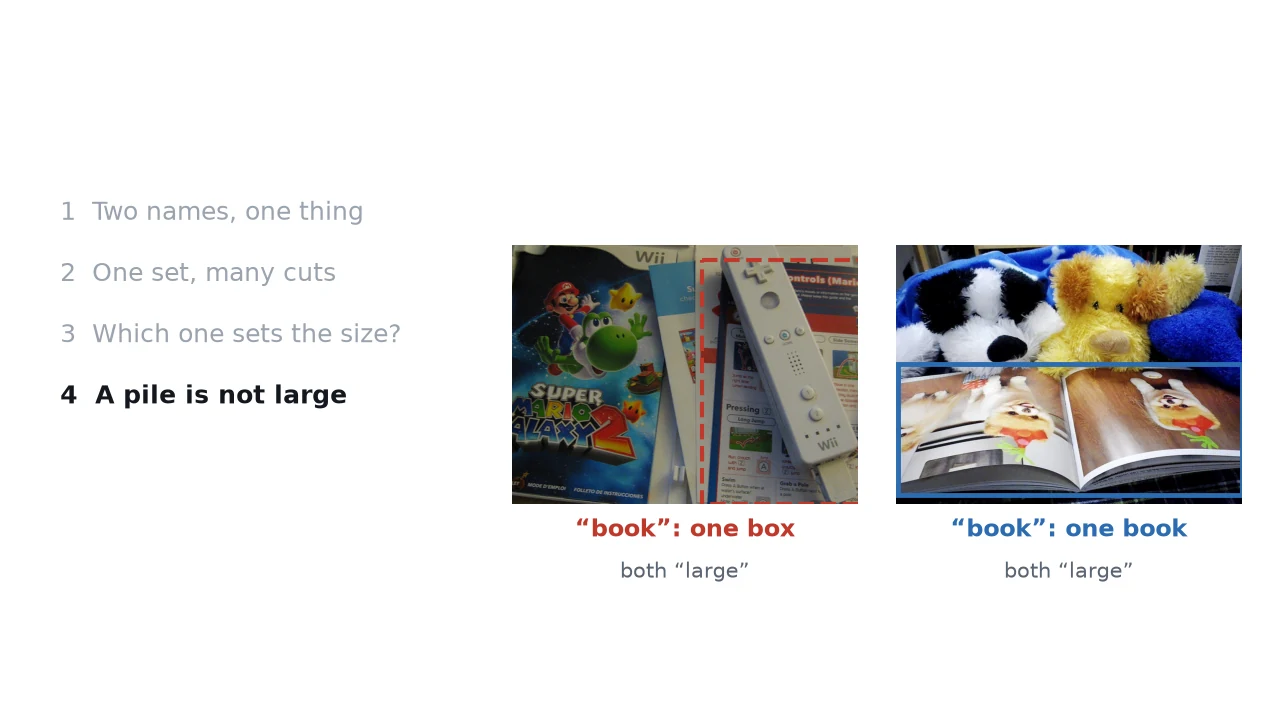
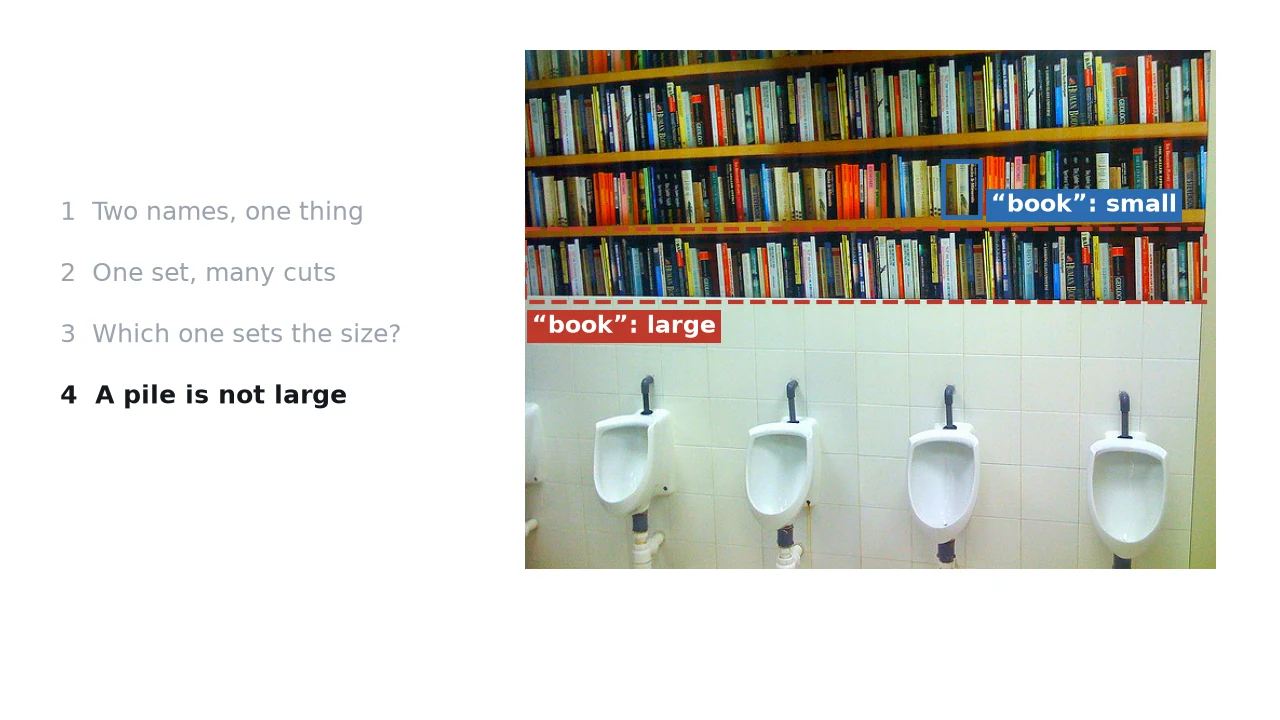
slides: the pile frame is a bookcase — one spine boxed small, one row boxed large
Claude-Session: https://claude.ai/code/session_014JBHgZWy5NLFcomscNSakK

diff --git a/slides/figs/src/make-data-cards.py b/slides/figs/src/make-data-cards.py
@@ -229,11 +229,15 @@ COCO_MERGE_PAIRS = (
 #: Frames b–d stay on the talk's running example, the book. A desk of books at
 #: several sizes: the largest is the one on the left, under the dog.
 COCO_SHELF = 309938
-#: Image ids: a stack of game booklets under one `book` box, beside one open
-#: book as big. `COCO_PILE_SIDE` picks the stack's box out of the first image,
-#: which boxes another pile on its other half.
-COCO_PILE = (379842, 262938)
-COCO_PILE_SIDE = "right"
+#: A bookcase in COCO **train2017** (image 469810), the one frame here from
+#: outside val2017, so it is fetched by URL rather than out of `coco_fixture`.
+#: COCO boxes a dozen spines on the upper shelves one by one, and then draws a
+#: single `book` box round the whole bottom row. Boxes are pinned from
+#: `instances_train2017.json` by annotation id rather than read live, because
+#: that file is 450 MB and this is the only thing the slides want from it.
+COCO_SHELF_URL = "http://images.cocodataset.org/train2017/000000469810.jpg"
+COCO_SHELF_ROW = (0.0, 164.52, 629.75, 67.69)  # ann 1652128: one box, a row of spines
+COCO_SHELF_SPINE = (387.0, 102.0, 34.0, 52.0)  # ann 1662519: one spine, boxed alone
 
 
 def _problems_column(fig: Any, active: int, items: tuple[str, ...]) -> None:
@@ -436,52 +440,40 @@ def frame_problem_largest() -> Any:
 
 
 def frame_problem_pile() -> Any:
-    """A pile under one `book` box beside one book as big, in two photos of one size.
+    """One bookcase, two boxes COCO drew in it: a single spine, and a whole row.
 
-    Both pictures are cropped to the same 4:3 and drawn in rectangles of the
-    same size, so the room compares two boxes of the same area — which is the
-    whole claim: by area they are the same band, and only one is one book.
+    Both are labelled `book`. The spine is small; the row is the same kind of
+    label round a union of spines, and by area it is large. Drawn on one
+    photograph so the two boxes are compared at one scale.
     """
+    import urllib.request
+
+    from PIL import Image
+
+    path = REPO / "data" / "coco-train" / COCO_SHELF_URL.rsplit("/", 1)[1]
+    if not path.exists():
+        path.parent.mkdir(parents=True, exist_ok=True)
+        urllib.request.urlretrieve(COCO_SHELF_URL, path)  # noqa: S310 — constant http URL, public photograph
+    with Image.open(path) as frame:
+        image, (dx, dy) = dc.fit_tile(frame)
+    row = (COCO_SHELF_ROW[0] - dx, COCO_SHELF_ROW[1] - dy, COCO_SHELF_ROW[2], COCO_SHELF_ROW[3])
+    spine = (COCO_SHELF_SPINE[0] - dx, COCO_SHELF_SPINE[1] - dy, COCO_SHELF_SPINE[2], COCO_SHELF_SPINE[3])
+
     fig = dc.blank()
     _problems_column(fig, 3, COCO_PROBLEMS)
-    _, _, by_image, names = _coco()
-    width = 0.27
+    width = 0.54
     height = width / (4 / 3) * dc.FIG_W / dc.FIG_H
-    for col, (image_id, label, colour, dashed) in enumerate(
-        ((COCO_PILE[0], "“book”: one box", dc.NEG, True), (COCO_PILE[1], "“book”: one book", dc.CUT, False))
-    ):
-        from PIL import Image
-
-        images, _, _, _ = _coco()
-        books = [a for a in by_image[image_id] if names[a["category_id"]] == "book"]
-        _, meta = _ann(books[0]["id"])
-        with Image.open(images / meta["file_name"]) as frame:
-            image, (dx, dy) = dc.fit_tile(frame)
-        if dashed:
-            half = meta["width"] / 2
-            books = [a for a in books if (a["bbox"][0] + a["bbox"][2] / 2 > half) == (COCO_PILE_SIDE == "right")]
-        (ann,) = books
-        x, y, w, h = ann["bbox"]
-        box = (x - dx, y - dy, w, h)
-        x0 = 0.40 + col * (width + 0.03)
-        _picture(
-            fig,
-            [x0, 0.30, width, height],
-            image,
-            boxes=[] if dashed else [(box, colour, 3.5)],
-            dashed=[box] if dashed else [],
-        )
-        fig.text(
-            x0 + width / 2,
-            0.28,
-            label,
-            ha="center",
-            va="top",
-            fontsize=dc.FLOOR_PT + 2,
-            color=colour,
-            fontweight="bold",
-        )
-        fig.text(x0 + width / 2, 0.22, "both “large”", ha="center", va="top", fontsize=dc.FLOOR_PT, color=dc.SOFT)
+    _picture(
+        fig,
+        [0.41, 0.93 - height, width, height],
+        image,
+        boxes=[(spine, dc.CUT, 3.5)],
+        dashed=[row],
+        labels=[
+            (spine[0] + spine[2] + 10, spine[1] + spine[3], "“book”: small", dc.CUT),
+            (row[0] + 6, row[1] + row[3] + 34, "“book”: large", dc.NEG),
+        ],
+    )
     return fig
 
 

diff --git a/slides/fragments/data-coco-problems.md b/slides/fragments/data-coco-problems.md
@@ -29,9 +29,9 @@
      books. Boxing all of them measures the desk. The one a user would drag
      is the most obvious one, the largest — so that is the size. -->
 
-<!-- **d** — COCO sometimes draws one box round a pile: here a stack of
-     game booklets, filed as one `book`. By area it is as large as the open
-     book beside it — same-sized photos, same-sized boxes — but no one booklet
-     is. A second annotation of the same images, LVIS, boxes one object at a
-     time, and a pile box is not admitted as a positive. (Fruit gets the same
-     check.) -->
+<!-- **d** — One bookcase, and two boxes COCO drew on it, both labelled
+     `book`. Up top it boxed a single spine: small. Along the bottom shelf it
+     drew one box round the whole row: by area, large — but no book in it is.
+     A second annotation of the same images, LVIS, boxes one object at a time,
+     and a box round a pile is not admitted as a positive. (Fruit gets the
+     same check: a bunch of bananas under one box.) -->
